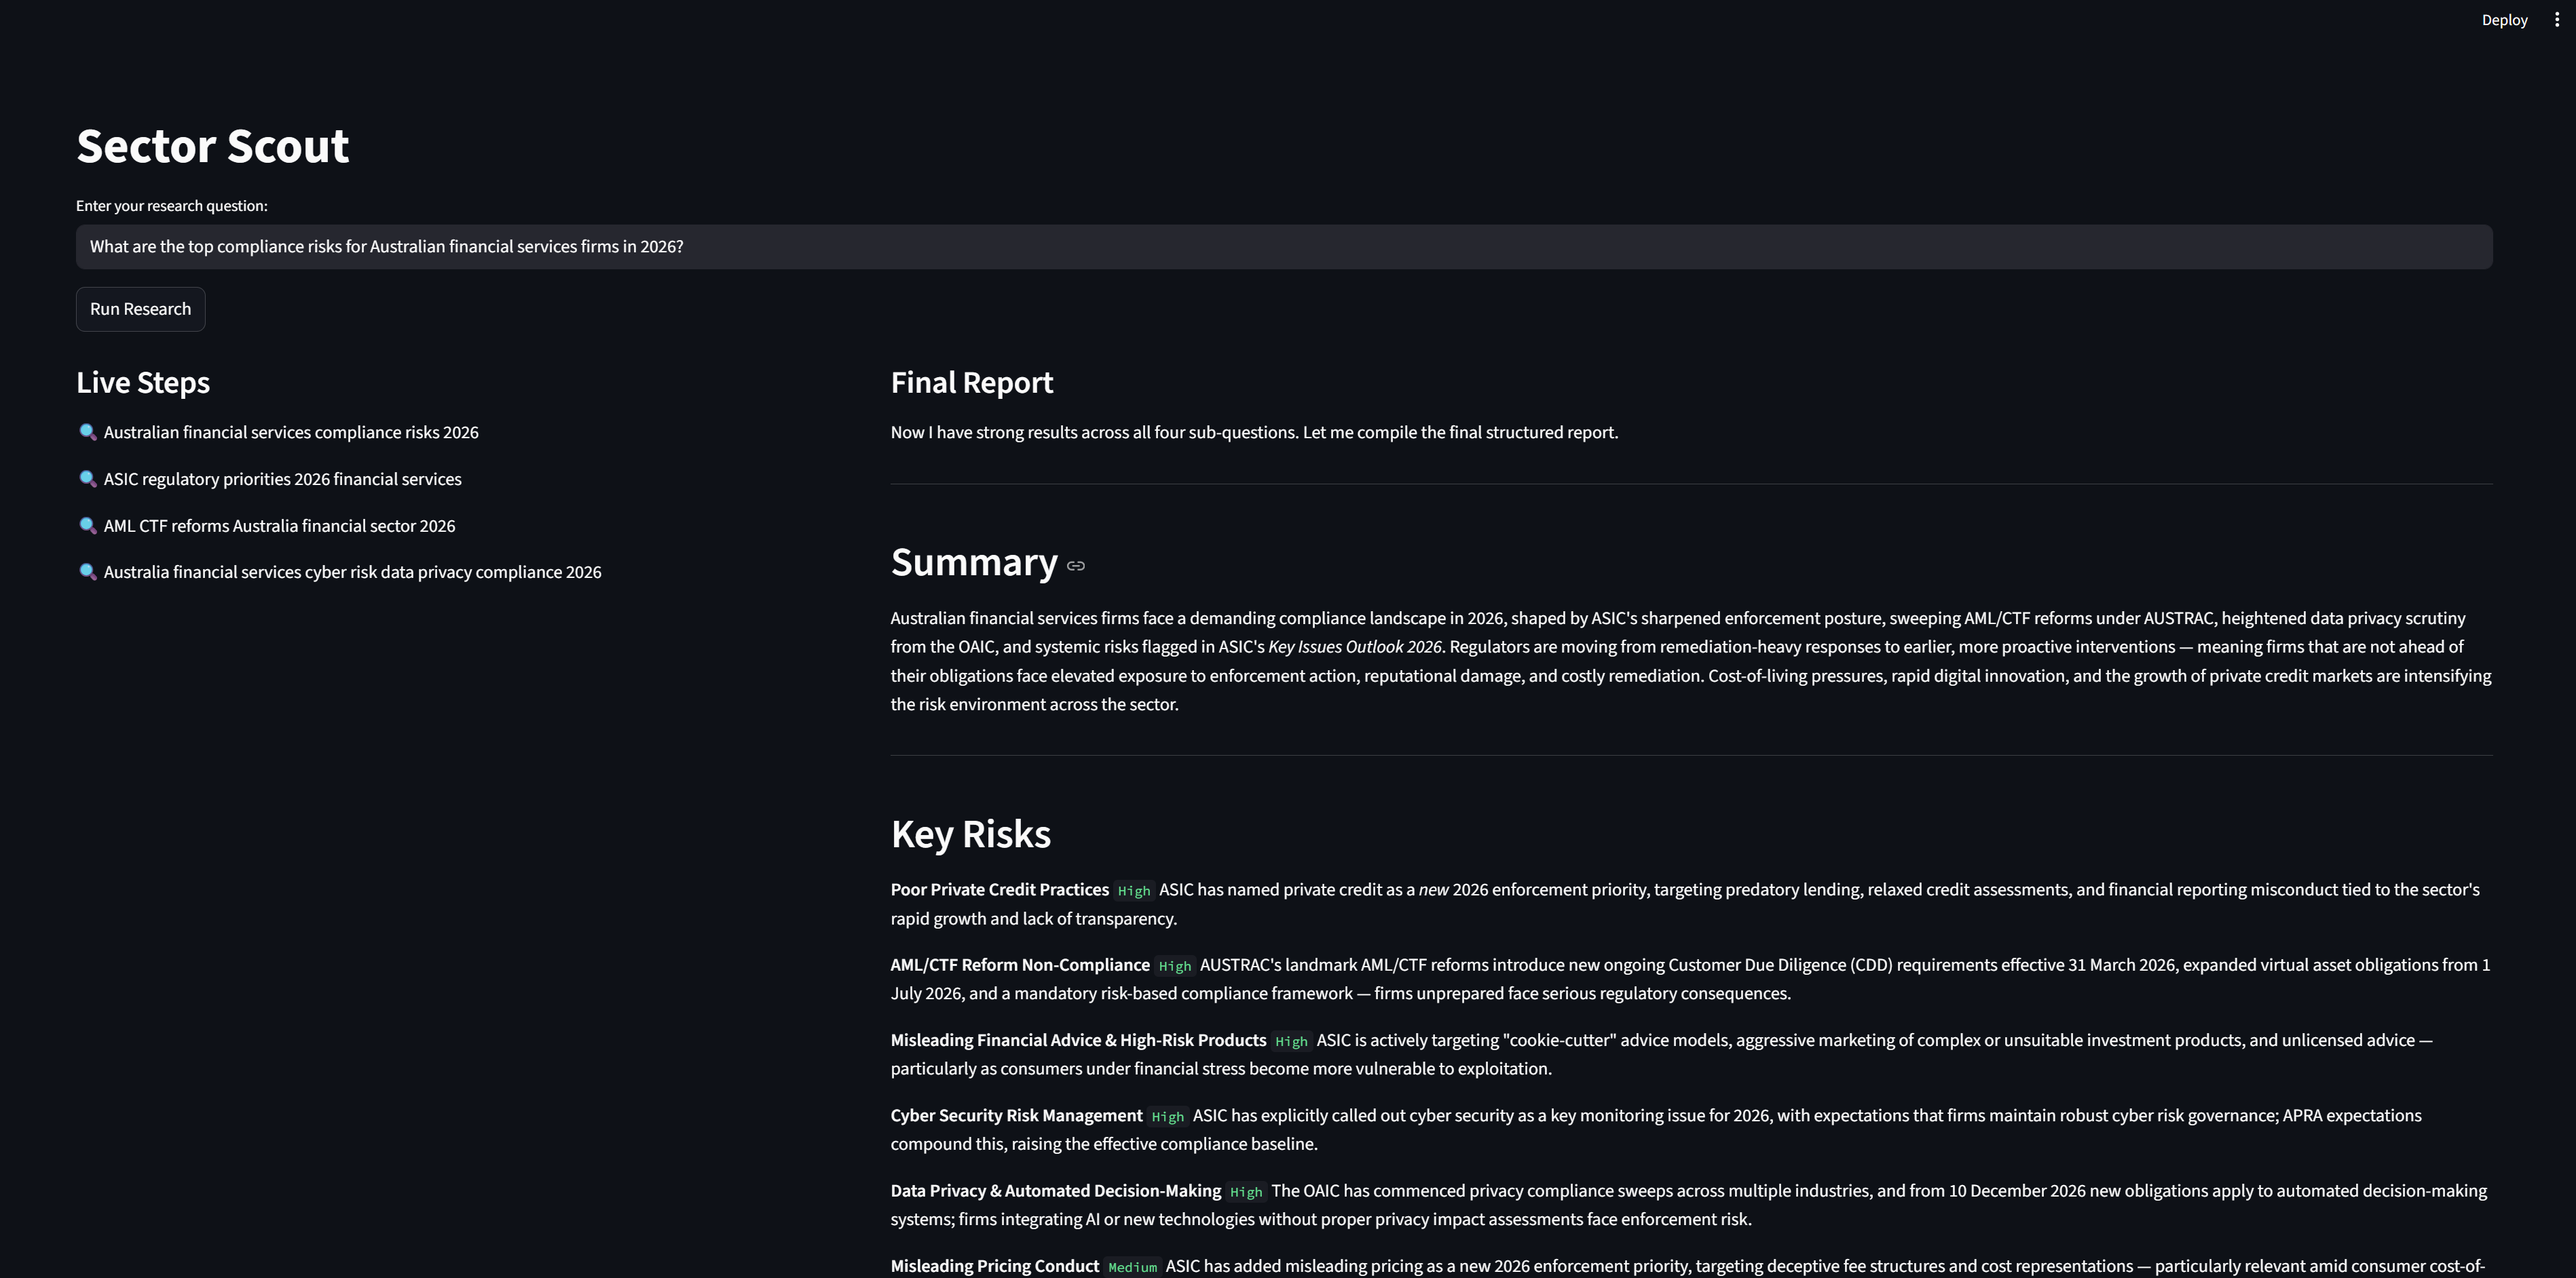
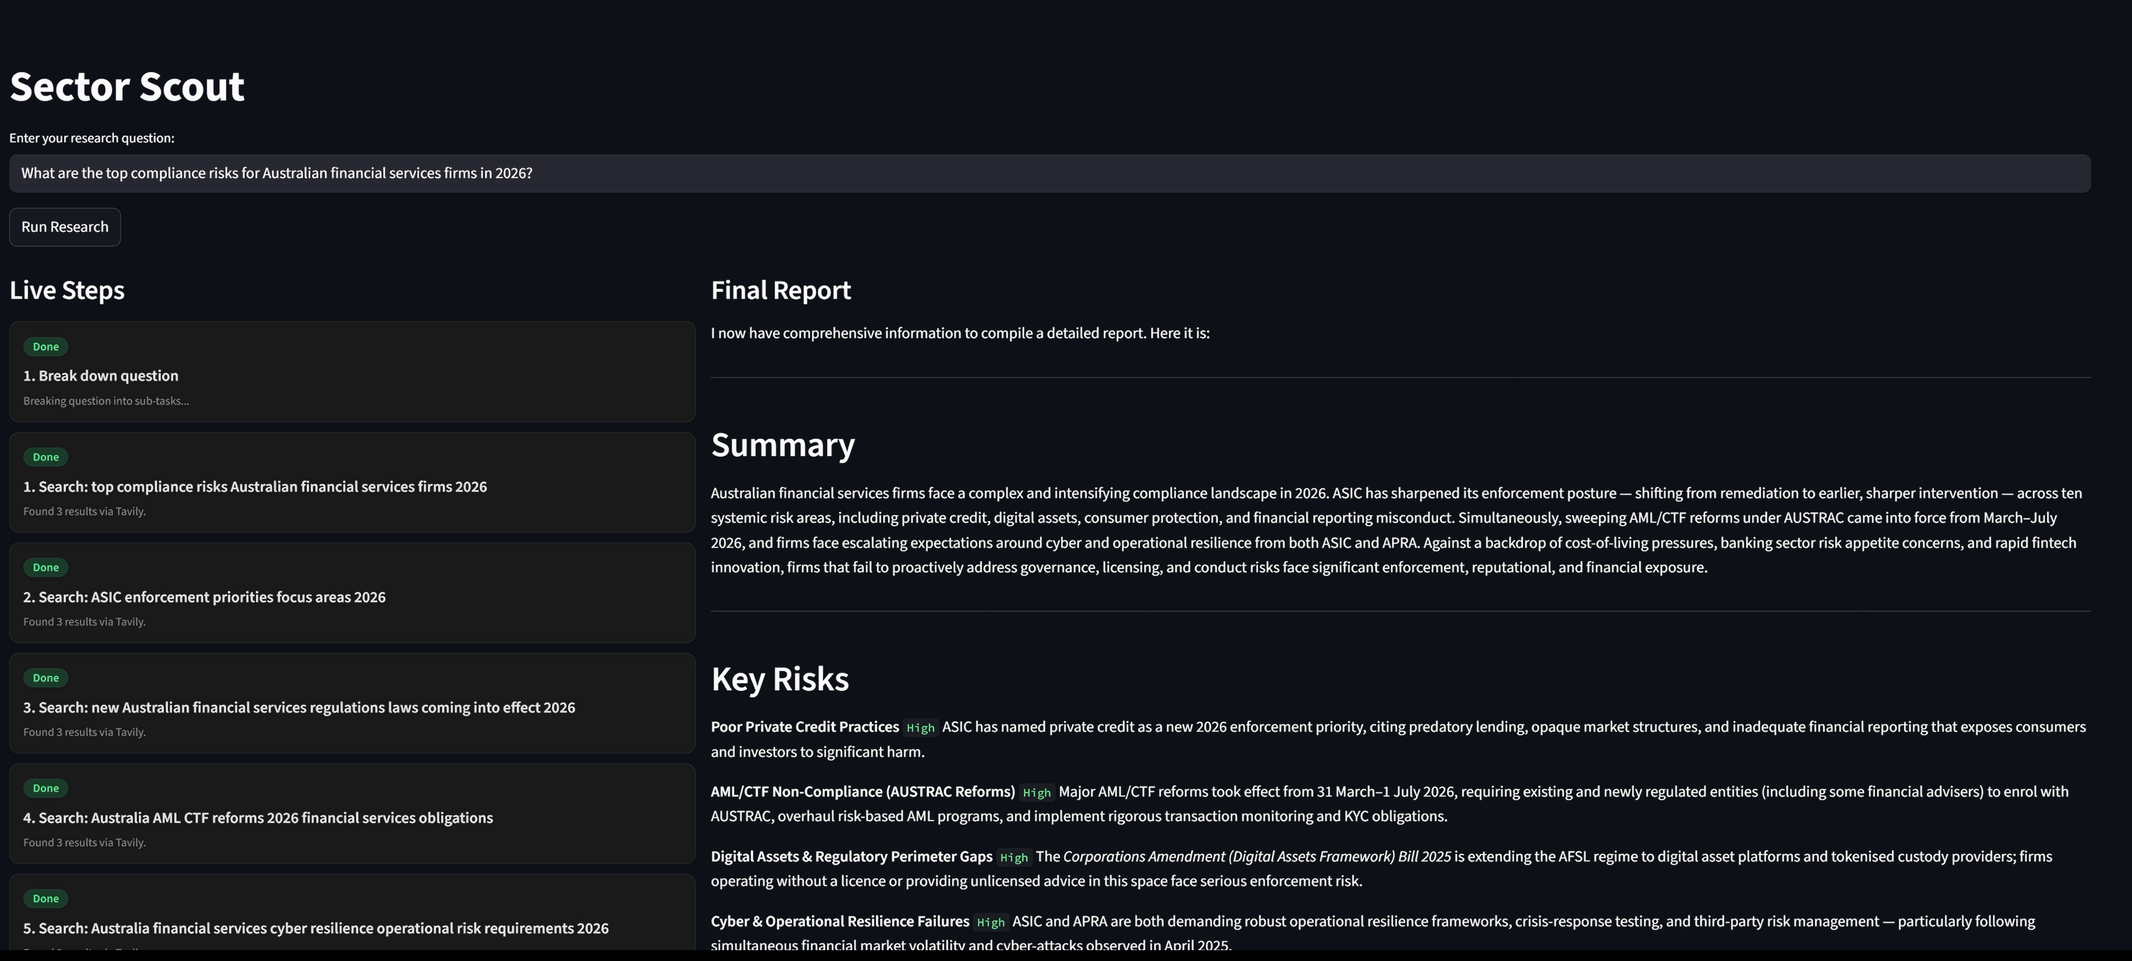
Add live details from the terminal output to a polished look on UI

diff --git a/app.py b/app.py
@@ -9,10 +9,54 @@ question = st.text_input(
     value="What are the top compliance risks for Australian financial services firms in 2026?"
 )
 
+def render_steps(steps):
+    html_parts = []
+    for i, step in enumerate(steps):
+        if step["type"] == "breakdown":
+            badge = '<span style="background:#1a3a2a;color:#4ade80;padding:2px 10px;border-radius:12px;font-size:12px;font-weight:600;">Done</span>'
+            html_parts.append(f"""
+            <div style="border:1px solid #2a2a2a;border-radius:10px;padding:12px 14px;margin-bottom:10px;background:#1a1a1a;">
+                {badge}
+                <div style="font-weight:600;margin-top:6px;color:#e0e0e0;">1. Break down question</div>
+                <div style="font-size:12px;color:#888;margin-top:3px;">{step['text']}</div>
+            </div>
+            """)
+        elif step["type"] == "search_done":
+            badge = '<span style="background:#1a3a2a;color:#4ade80;padding:2px 10px;border-radius:12px;font-size:12px;font-weight:600;">Done</span>'
+            num = step["step_num"]
+            html_parts.append(f"""
+            <div style="border:1px solid #2a2a2a;border-radius:10px;padding:12px 14px;margin-bottom:10px;background:#1a1a1a;">
+                {badge}
+                <div style="font-weight:600;margin-top:6px;color:#e0e0e0;">{num}. Search: {step['query']}</div>
+                <div style="font-size:12px;color:#888;margin-top:3px;">Found {step['result_count']} results via Tavily.</div>
+            </div>
+            """)
+        elif step["type"] == "search_running":
+            badge = '<span style="background:#1a2a3a;color:#60a5fa;padding:2px 10px;border-radius:12px;font-size:12px;font-weight:600;">Running</span>'
+            num = step["step_num"]
+            html_parts.append(f"""
+            <div style="border:1px solid #1e3a5f;border-radius:10px;padding:12px 14px;margin-bottom:10px;background:#111a24;">
+                {badge}
+                <div style="font-weight:600;margin-top:6px;color:#e0e0e0;">{num}. Search: {step['query']}</div>
+                <div style="font-size:12px;color:#888;margin-top:3px;">Searching now...</div>
+            </div>
+            """)
+        elif step["type"] == "synthesise":
+            badge = '<span style="background:#2a2a1a;color:#facc15;padding:2px 10px;border-radius:12px;font-size:12px;font-weight:600;">Running</span>'
+            html_parts.append(f"""
+            <div style="border:1px solid #3a3a1a;border-radius:10px;padding:12px 14px;margin-bottom:10px;background:#1a1a0f;">
+                {badge}
+                <div style="font-weight:600;margin-top:6px;color:#e0e0e0;">Synthesise into report</div>
+                <div style="font-size:12px;color:#888;margin-top:3px;">Writing final report...</div>
+            </div>
+            """)
+    return "".join(html_parts)
+
+
 if st.button("Run Research"):
-    # Clear previous results
     st.session_state["steps"] = []
     st.session_state["report"] = ""
+    search_counter = [0]  # use list so we can mutate inside the loop
 
     left, right = st.columns([1, 2])
 
@@ -24,14 +68,34 @@ if st.button("Run Research"):
         st.subheader("Final Report")
         report_container = st.empty()
 
-    # Run the agent and update the UI as each step arrives
     for event in run_agent_stream(question):
 
-        if event["type"] == "search":
-            st.session_state["steps"].append(f"🔍 {event['query']}")
-            # Rebuild the left panel with all steps so far
-            steps_container.markdown("\n\n".join(st.session_state["steps"]))
+        if event["type"] == "breakdown":
+            st.session_state["steps"].append({"type": "breakdown", "text": event["text"]})
+
+        elif event["type"] == "search":
+            search_counter[0] += 1
+            st.session_state["steps"].append({
+                "type": "search_running",
+                "query": event["query"],
+                "step_num": search_counter[0]
+            })
+
+        elif event["type"] == "search_done":
+            # Replace the last running step with the done version
+            for i in range(len(st.session_state["steps"]) - 1, -1, -1):
+                if st.session_state["steps"][i].get("query") == event["query"]:
+                    st.session_state["steps"][i] = {
+                        "type": "search_done",
+                        "query": event["query"],
+                        "result_count": event["result_count"],
+                        "step_num": st.session_state["steps"][i]["step_num"]
+                    }
+                    break
 
         elif event["type"] == "report":
+            st.session_state["steps"].append({"type": "synthesise"})
             st.session_state["report"] = event["content"]
             report_container.markdown(event["content"])
+
+        steps_container.html(render_steps(st.session_state["steps"]))

diff --git a/agent.py b/agent.py
@@ -155,6 +155,7 @@ def run_agent_stream(question: str):
     # Start the conversation with the user's question, same as run_agent()
     messages = [{"role": "user", "content": question}]
     loop_count = 0
+    yield {"type": "breakdown", "text": "Breaking question into sub-tasks..."}
 
     print(f"[STREAM] Starting stream for question: '{question}'")
 
@@ -197,10 +198,11 @@ def run_agent_stream(question: str):
 
                     # Yield the search query to the Streamlit UI before running it
                     # This is what makes the left panel update in real time
-                    yield {"type": "search", "query": query}
-
-                    # Now actually run the search
+                    yield {"type": "search", "query": query, "status": "running"}
                     result = run_search(query)
+                    result_count = len(result.split("Source:")) - 1
+                    yield {"type": "search_done", "query": query, "result_count": result_count}
+
                     print(f"[STREAM] Search done, result length: {len(result)} chars")
 
                     # Package the result so Claude knows which tool call it belongs to
